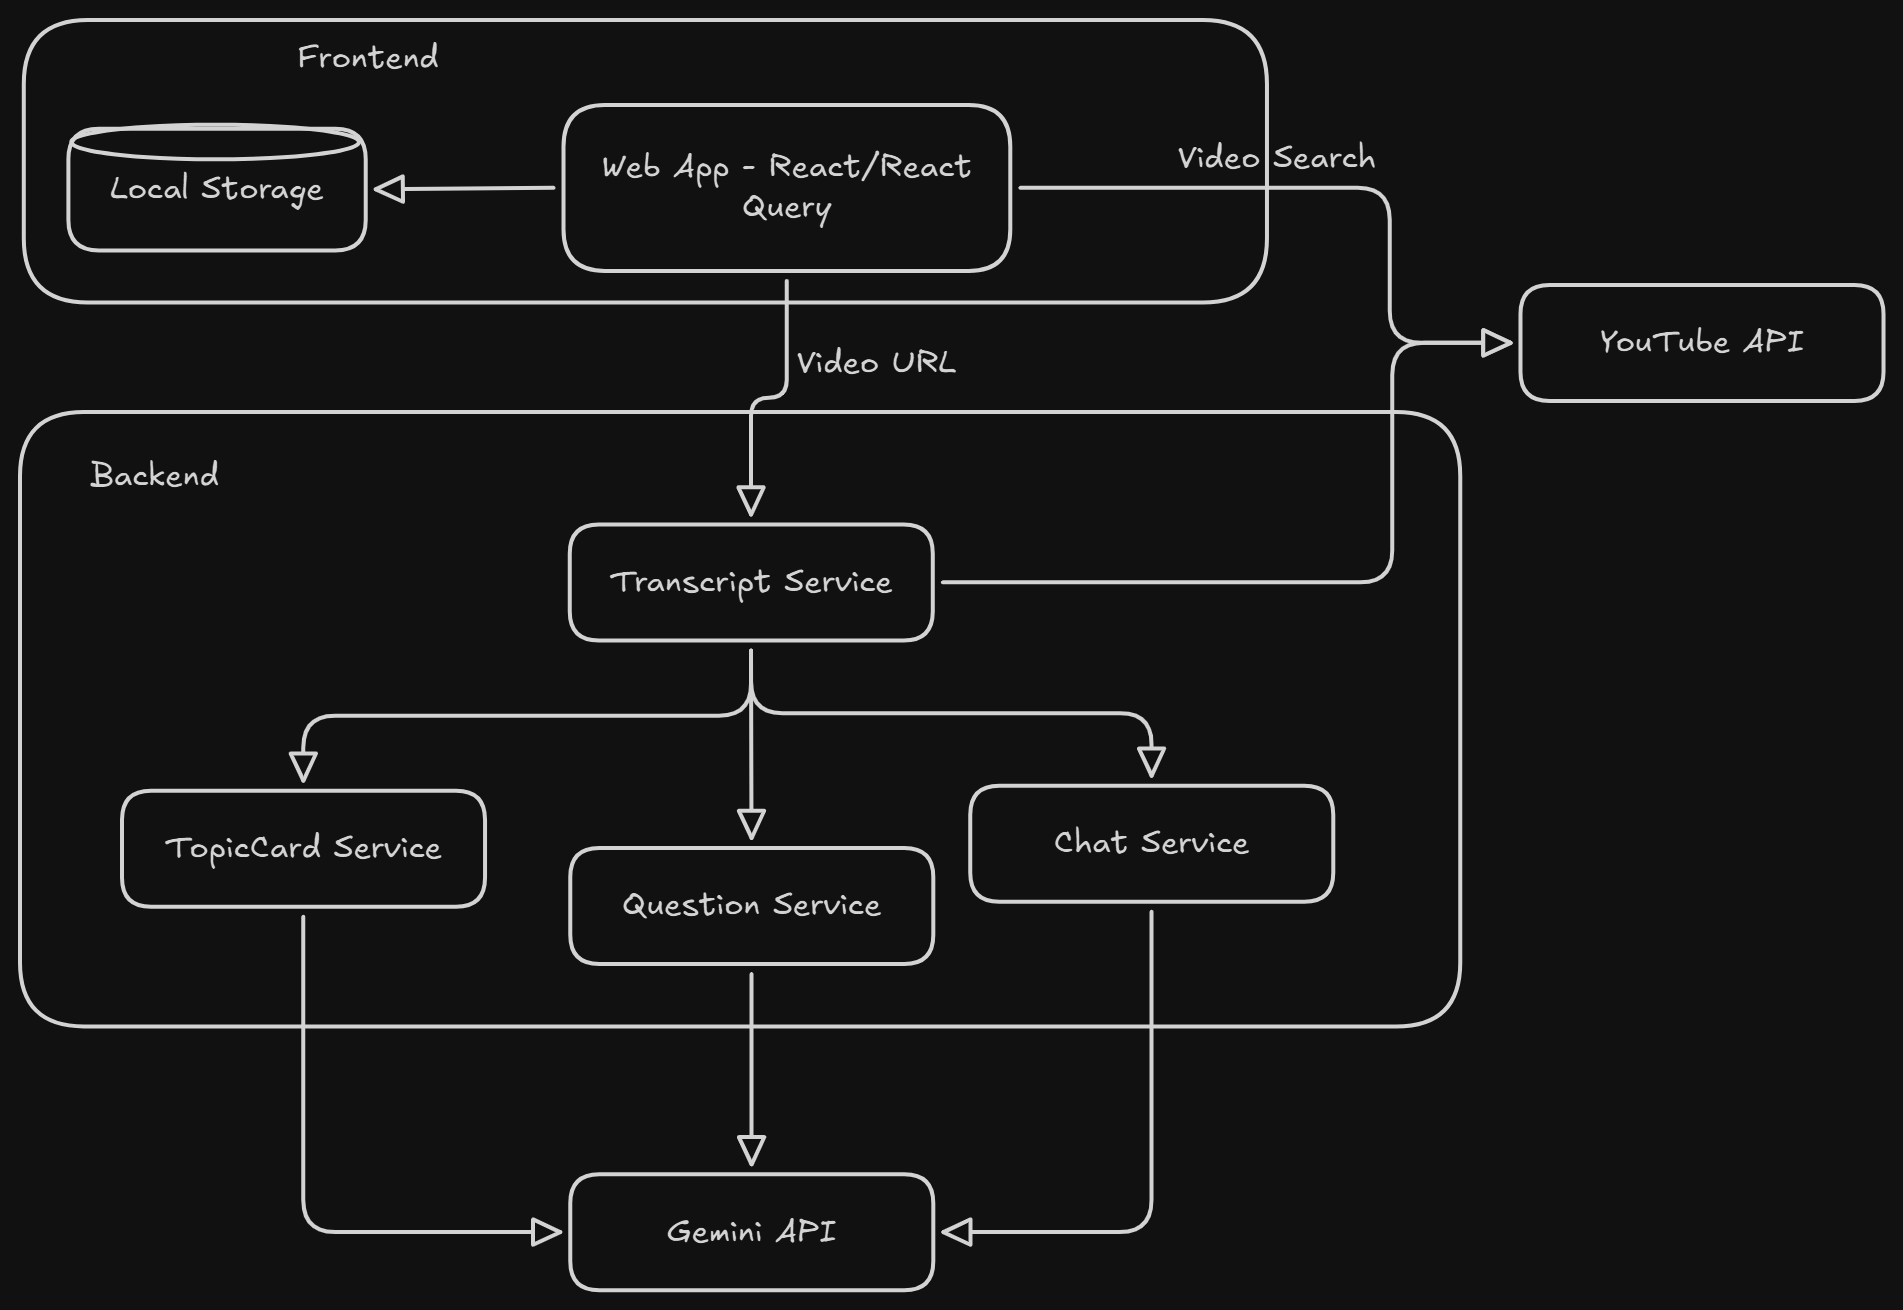
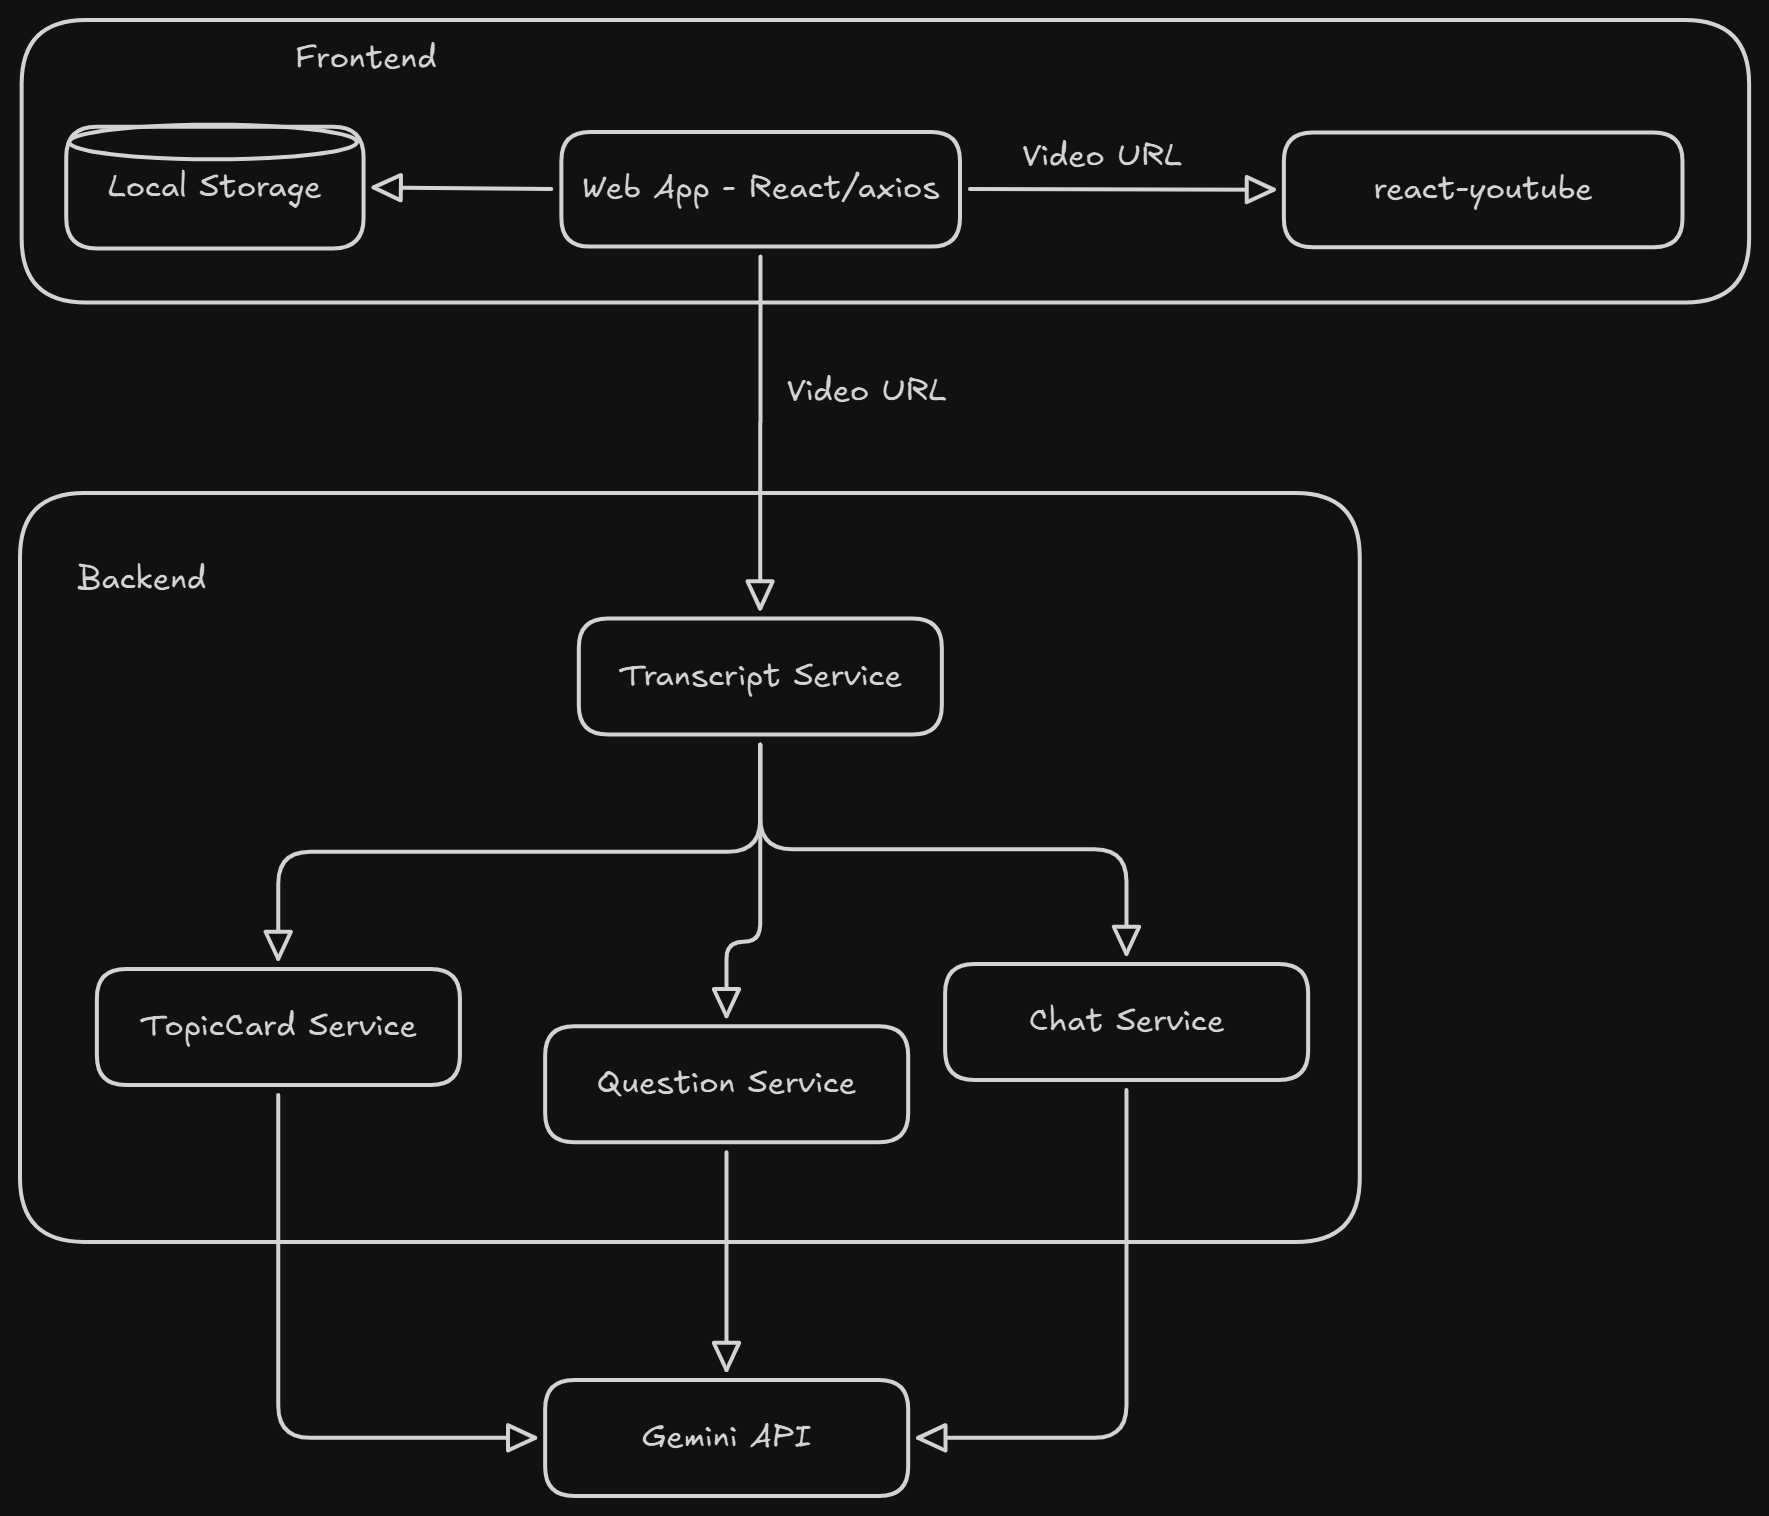
chore: base project

diff --git a/server/routes.py b/server/routes.py
@@ -1,0 +1,41 @@
+from flask import Blueprint, request, jsonify, current_app
+from services.transcript_service import get_video_transcript
+from services.topic_service import generate_topics
+from services.question_service import generate_questions
+
+bp = Blueprint('api', __name__, url_prefix='/api')
+
+@bp.post('/transcript')
+def get_transcript():
+    data = request.get_json()
+    video_url = data.get('video_url')
+    
+    try:
+        transcript = get_video_transcript(video_url)
+        return jsonify({'transcript': transcript})
+    except Exception as e:
+        return jsonify({'error': str(e)}), 400
+
+@bp.post('/generate/topics')
+def get_topics():
+    data = request.get_json()
+    transcript = data.get('transcript')
+    
+    try:
+        topics = generate_topics(transcript, current_app.config['GEMINI_API_KEY'])
+        return jsonify({'topics': topics})
+    except Exception as e:
+        return jsonify({'error': str(e)}), 400
+
+@bp.post('/generate/questions')
+def get_questions():
+    data = request.get_json()
+    transcript = data.get('transcript')
+    
+    try:
+        questions = generate_questions(transcript, current_app.config['GEMINI_API_KEY'])
+        return jsonify({'questions': questions})
+    except Exception as e:
+        return jsonify({'error': str(e)}), 400
+
+# TODO: Create chat service

diff --git a/server/services/topic_service.py b/server/services/topic_service.py
@@ -1,0 +1,36 @@
+from google import genai
+import json
+
+def generate_topics(transcript, api_key):
+    """Genera tarjetas de temas usando la API de Gemini 1.0"""
+    try:
+        client = genai.Client(api_key=api_key)
+        
+        prompt = f"""Analiza el siguiente texto de una transcripción de video y genera los temas principales en formato de tarjetas:
+        
+        {transcript}
+        
+        Devuelve SOLO en formato JSON válido con la siguiente estructura:
+        [
+            {{
+                "title": "Título del tema", 
+                "summary": "Resumen breve", 
+                "key_points": ["punto 1", "punto 2"]
+            }}
+        ]"""
+        
+        response = client.models.generate_content(
+          model="gemini-2.0-flash",
+          contents=prompt,
+          config={
+            'response_mime_type': 'application/json',
+          }
+        )
+        response_text = response.text
+        return response_text
+        
+    except Exception as e:
+        raise ValueError(f"Error en la generación: {str(e)}")
+            
+    except Exception as e:
+        raise ValueError(f"Error al generar temas: {str(e)}")

diff --git a/server/services/question_service.py b/server/services/question_service.py
@@ -1,0 +1,24 @@
+from google import genai
+
+def generate_questions(transcript, api_key):
+    """Genera preguntas basadas en la transcripción"""
+    client = genai.Client(api_key=api_key)
+
+
+    
+    prompt = f"""Genera preguntas relevantes basadas en el siguiente contenido:
+    
+    {transcript}
+    
+    Devuelve un JSON con la estructura: [{"question": "Texto de la pregunta", "options": [], "answer": "opcion correcta", "justification": "una breve justificacion"}]"""
+    
+    response = client.models.generate_content(
+      model="gemini-2.0-flash",
+      contents=prompt,
+      config={
+        'response_mime_type': 'application/json',
+      }
+    )
+
+    response_text = response.text
+    return response_text

diff --git a/server/services/transcript_service.py b/server/services/transcript_service.py
@@ -1,0 +1,17 @@
+from youtube_transcript_api import YouTubeTranscriptApi
+
+def get_video_transcript(video_url):
+    """Obtiene la transcripción de un video de YouTube"""
+    video_id = extract_video_id(video_url)
+    ytt_api = YouTubeTranscriptApi()
+    fetched_transcript = ytt_api.fetch(video_id)
+    transcript = fetched_transcript.to_raw_data()
+    return transcript
+
+def extract_video_id(url):
+    """Extrae el ID del video de una URL de YouTube"""
+    if 'youtu.be/' in url:
+        return url.split('youtu.be/')[-1].split('?')[0]
+    elif 'youtube.com/watch?v=' in url:
+        return url.split('v=')[1].split('&')[0]
+    return url

diff --git a/server/app.py b/server/app.py
@@ -1,9 +1,22 @@
 from flask import Flask
 from flask_cors import CORS
+from dotenv import load_dotenv
+import os
 
-app = Flask(__name__)
-CORS(app, resources={r"/api/*": {"origins": "http://client:5173"}})
+load_dotenv()
 
-@app.route("/")
-def hello_world():
-  return "<h1>Hello, World!</h1>"
+def create_app():
+    app = Flask(__name__)
+    CORS(app)
+    
+    # Configuración
+    app.config.from_mapping(
+        GEMINI_API_KEY=os.getenv('GEMINI_API_KEY'),
+        FLASK_SECRET_KEY=os.getenv('FLASK_SECRET_KEY', 'dev')
+    )
+    
+    # Registrar blueprints
+    from routes import bp
+    app.register_blueprint(bp)
+    
+    return app

diff --git a/server/services/__init__.py b/server/services/__init__.py
@@ -1,0 +1,10 @@
+# Exportar servicios
+from .transcript_service import get_video_transcript
+from .topic_service import generate_topics
+from .question_service import generate_questions
+
+__all__ = [
+    'get_video_transcript',
+    'generate_topics',
+    'generate_questions'
+]

diff --git a/README.md b/README.md
@@ -1,41 +1,32 @@
-# YTAnglo Agent
-Aplicación selft-hosted y open source para aprender ingles por medio de videos de youtube y IA.
+# AnglonYT
+Self-hosted and open-source application for learning English through YouTube videos and AI.
 
-## Features
-- Youtube Client
-- AI Integrations
-- Chat para resolver dudas sobre el tema del video
-- Notas Interactivas deacuerdo al contenido del video, para reforzar los expuesto
-- Preguntas y ejercicios exporadicos sobre el tema del video
-- docker => simple deployment
-- Poder generar resumenes del video o clase
+## TODOs
+- [ ] YouTube Client
+- [ ] AI Integrations
+- [ ] Chat to resolve questions
+- [ ] Interactive Notes and Questions
+- [ ] Easy deployment with Docker
 
-## Demo
-video
 
 ## Tech Stack
 - **Frontend**
   - Vite
   - React
-  - React Query
+  - Axios
   - Zustand
   - TailwindCSS
+  - react-youtube
 - **Backend**
   - Flask
-- **APIs**
-  - Youtube API
-  - Gemini API
-- **Deployment**
+  - youtube-transcript-api
+  - google-genai
+- **Deploy**
   - Docker
-  - Github Actions
 
-## Run App
-Copy content of `.env.example` to `.env` and replace variable values for your own keys
-
-- Gemini API Key
-- Youtube API Key
 
 ## Quick Setup 🛠
+
 1. Clone and Setup Environment:
 ```bash
 git clone https://github.com/primaveraopensource/anglonyt.git
@@ -43,20 +34,41 @@ cd anglonyt
 cp .env.example .env
 ```
 
-1. Start Development Environment:
+Copy content of `.env.example` to `.env` and replace variable values for your own [Gemini API Key](https://ai.google.dev/)
+
+**Start Development Environment:**
 ```bash
 # Build and start all services
-docker-compose up -d
-
-# Start web application
-npm install
-npm run dev:web
+docker-compose up
 ```
+
 ## Project Struture
 
 ```markmap
-#### Root Directory
-- ****
+anglonyt/
+├── client/
+│   ├── public/
+│   ├── src/
+│   │   ├── services/
+│   │   ├── components/
+│   │   ├── models/
+│   │   ├── stores/
+│   │   ├── App.jsx
+│   │   ├── main.jsx
+│   │   └── ...
+│   ├── package.json
+│   ├── vite.config.js
+│   └── ...
+├── server/
+│   │   ├── services/
+│   │   ├── transcript_service.py
+│   │   ├── topic_service.py
+│   │   ├── question_service.py
+│   │   └── chat_service.py
+│   ├── app.py
+│   ├── requirements.txt
+│   ├── routes.py
+│   └── Dockerfile
+├── docker-compose.yml
+└── README.md
 ```
-
-## Architecture
